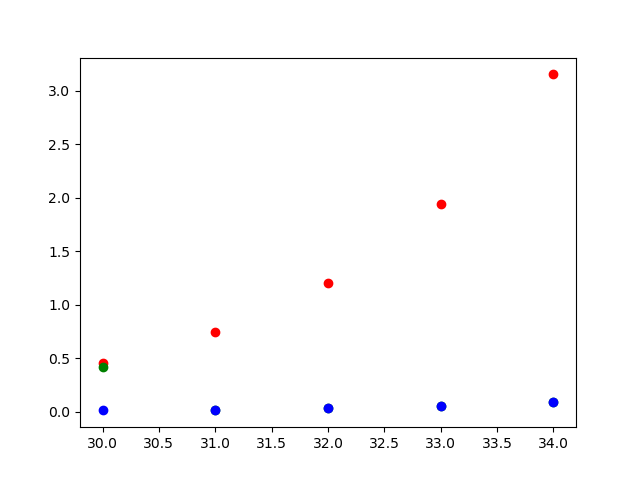
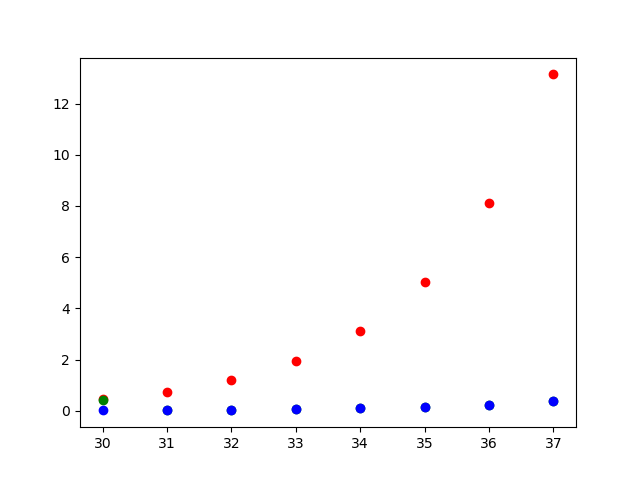
hej

diff --git a/MA4_2.py b/MA4_2.py
@@ -46,18 +46,17 @@ def fib_comparison(a, b):
 	ax.scatter(x, py, c='r')
 	ax.scatter(x, num, c='g')
 	ax.scatter(x, cpp, c='b')
-	#ax.set_aspect('equal', adjustable='box')
 	plt.savefig('fib_plot.png')
 
-		
 
-		
+
+
 
 
 
 
 def main():
-	fib_comparison(30, 35)
+	fib_comparison(30, 38)
 
 if __name__ == '__main__':
 	main()
